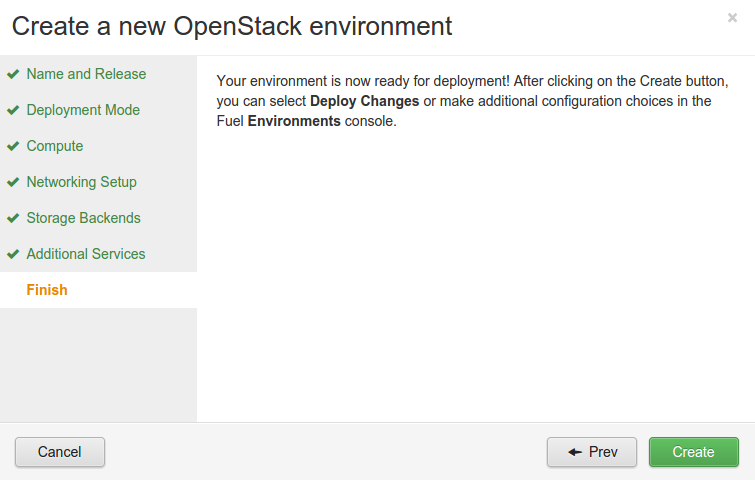
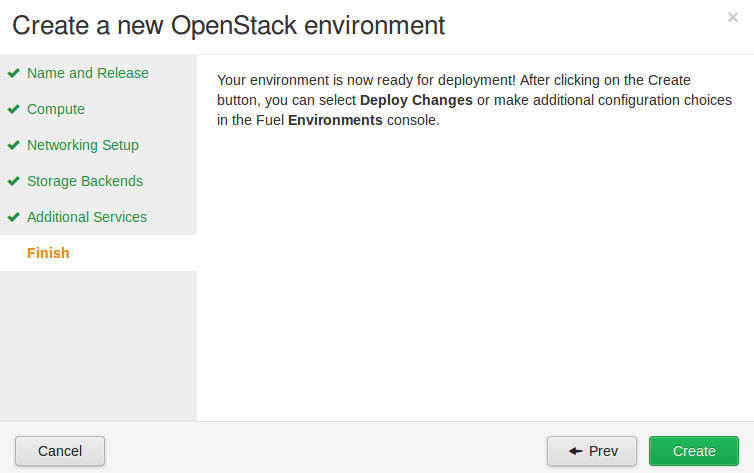
Some vCenter-related screens should be refreshed
All changes will be done to User Guide for VMware.

diff --git a/pages/user-guide/7300-vcenter.rst b/pages/user-guide/7300-vcenter.rst
@@ -29,15 +29,8 @@ can be used as the host operating system on the Slave nodes
 for environments that support integration with vSphere:
 
 .. image:: /_images/user_screen_shots/vcenter-create-env.png
-   :width: 50%
+   :width: 100%
 
-Choose Deployment Mode for vCenter
-++++++++++++++++++++++++++++++++++
-
-You can deploy Mirantis OpenStack with or without :ref:`ha-term`.
-
-.. image:: /_images/user_screen_shots/vcenter-deployment-mode.png
-   :width: 50%
 
 .. raw: pdf
 
@@ -56,7 +49,7 @@ enabled.
 
 
 .. image:: /_images/user_screen_shots/select-two-hypervisors.png
-   :width: 50%
+   :width: 100%
 
 .. _vcenter-netv-service:
 
@@ -66,7 +59,7 @@ Select Network Service for vCenter
 Currently, the only support network option for vCenter is nova-network.
 
 .. image:: /_images/user_screen_shots/vcenter-networking-no-nsx.png
-   :width: 50%
+   :width: 100%
 
 .. raw: pdf
 
@@ -86,14 +79,12 @@ If you would like to use Glance with VMware datastore,
 enable it on the *Settings* tab of the Fuel web UI
 and configure backend on the VMware tab.
 
-.. image:: /_images/user_screen_shots/cinder-storage-backend.png
-   :width: 50%
+.. image:: /_images/user_screen_shots/cinder-storage-backend-vmware.png
+   :width: 100%
 
 After you create the environment, you must enable the VMDK
 driver for Cinder on the *Settings* tab.
 
-- If you are using the deprecated Multi-node (non-HA) mode,
-  local storage is used as the backend for Glance.
 
 Related projects for vCenter
 ++++++++++++++++++++++++++++
@@ -103,12 +94,12 @@ so you cannot run Murano in the OpenStack environment
 with vSphere integration.
 
 
-.. image:: /_images/user_screen_shots/vcenter-additional.png
-   :width: 50%
+.. image:: /_images/user_screen_shots/platform-services-vmware.png
+   :width: 100%
 
 Note that not all :ref:`Ceilometer<ceilometer-term>`
 metrics are collected for the vCenter environment.
-For more details about the Ceilometer plug-in for vCenter,
+For more details about the Ceilometer plugin for vCenter,
 see `Support for VMware vCenter Server <https://wiki.openstack.org/wiki/Ceilometer/blueprints/vmware-vcenter-server#Support_for_VMware_vCenter_Server>`_.
 
 .. raw: pdf
@@ -120,7 +111,7 @@ Complete the creation of your vCenter environment
 
 
 .. image:: /_images/user_screen_shots/deploy_env.png
-   :width: 50%
+   :width: 100%
 
 
 Select "Create" and click on the icon for your named environment.
